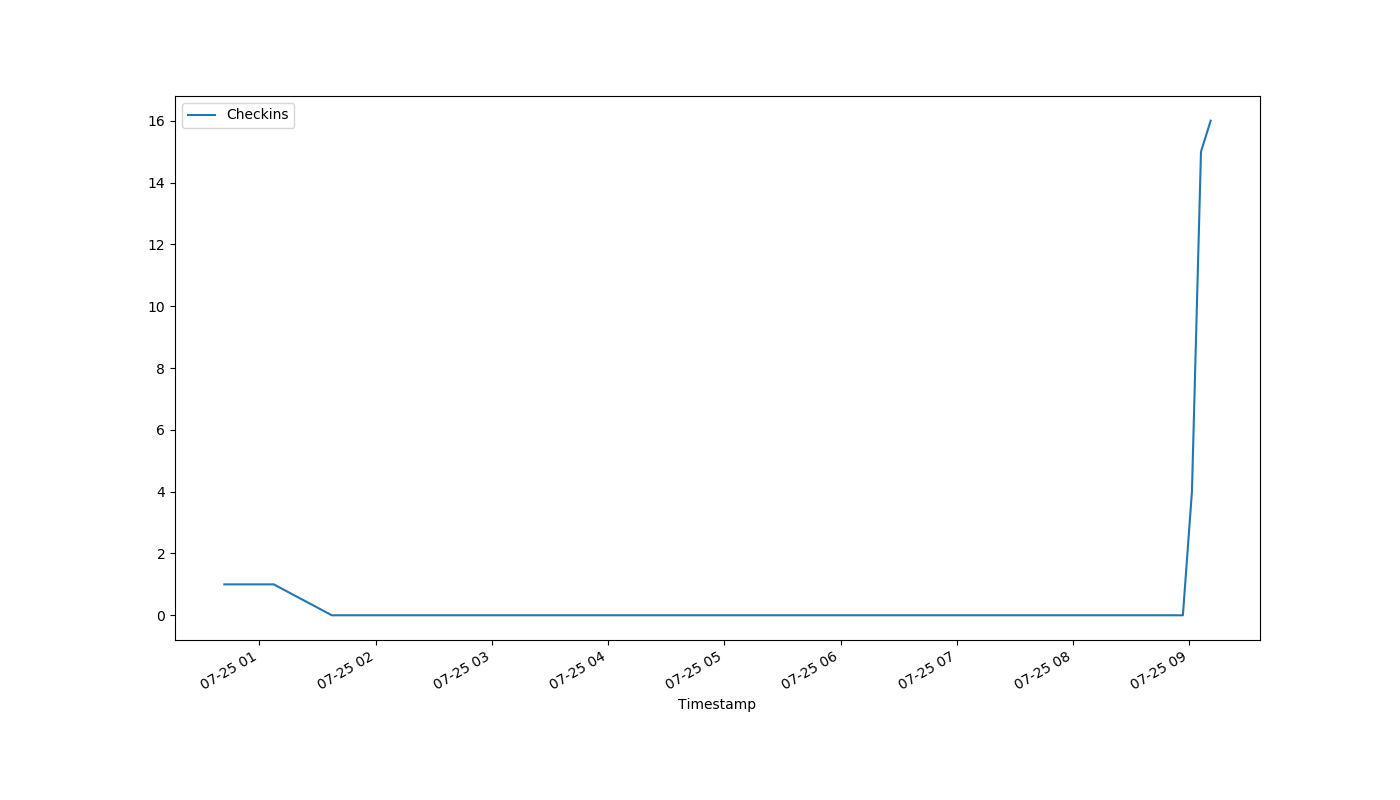
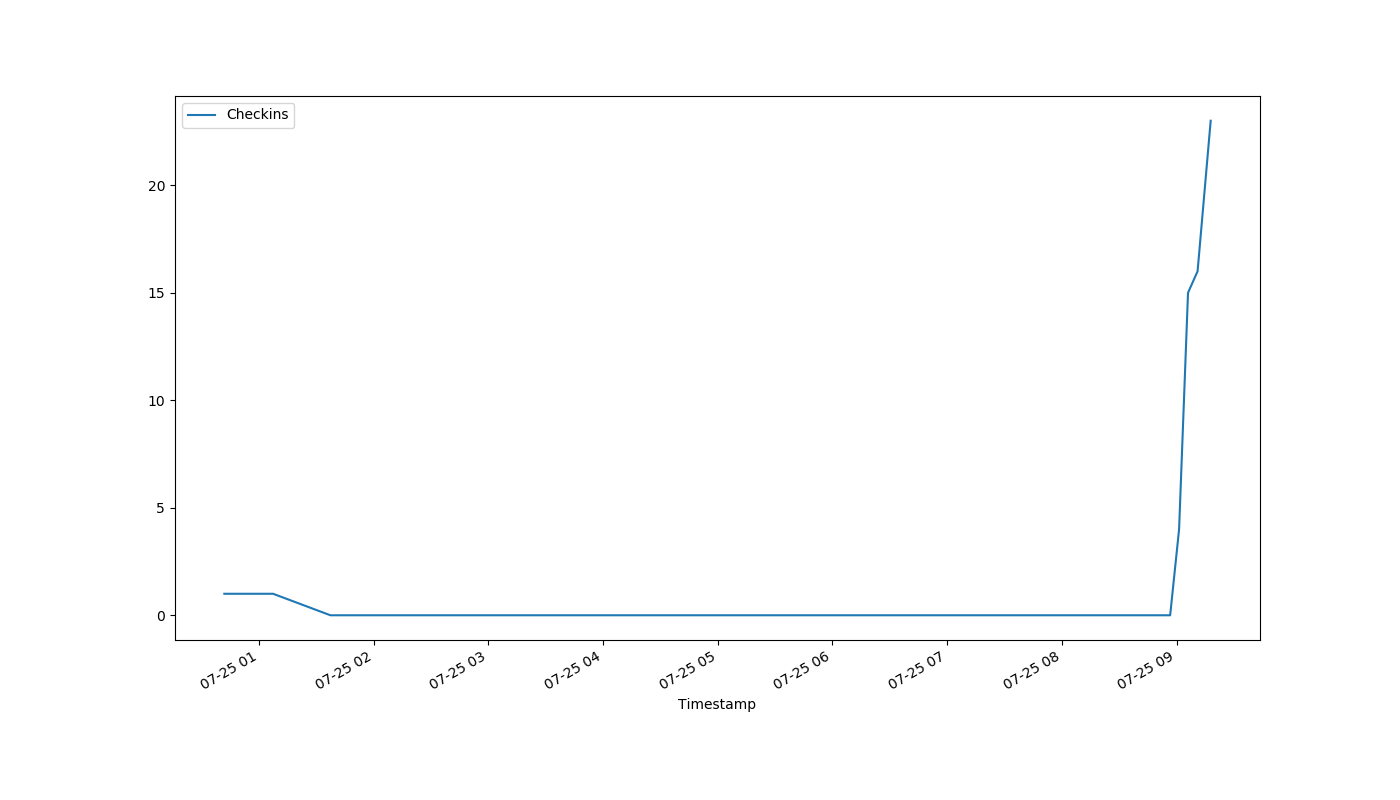
auto-Jul-25-09:19:58

diff --git a/index.html b/index.html
@@ -1,1 +1,1 @@
-<!DOCTYPE html><html><head><meta http-equiv="refresh" content="30"><link rel='stylesheet' href='holmcurrent.css'></head><body><p id='count'>-1</p><div id='graph-wrap'><img id='graph' src='holmgraph-Jul-25.png'></div><p id='updated'>Last updated 09:17:12 / 09:16:31</p></body></html>
+<!DOCTYPE html><html><head><meta http-equiv="refresh" content="30"><link rel='stylesheet' href='holmcurrent.css'></head><body><p id='count'>23</p><div id='graph-wrap'><img id='graph' src='holmgraph-Jul-25.png'></div><p id='updated'>Last updated 09:18:12 / 09:17:51</p></body></html>
